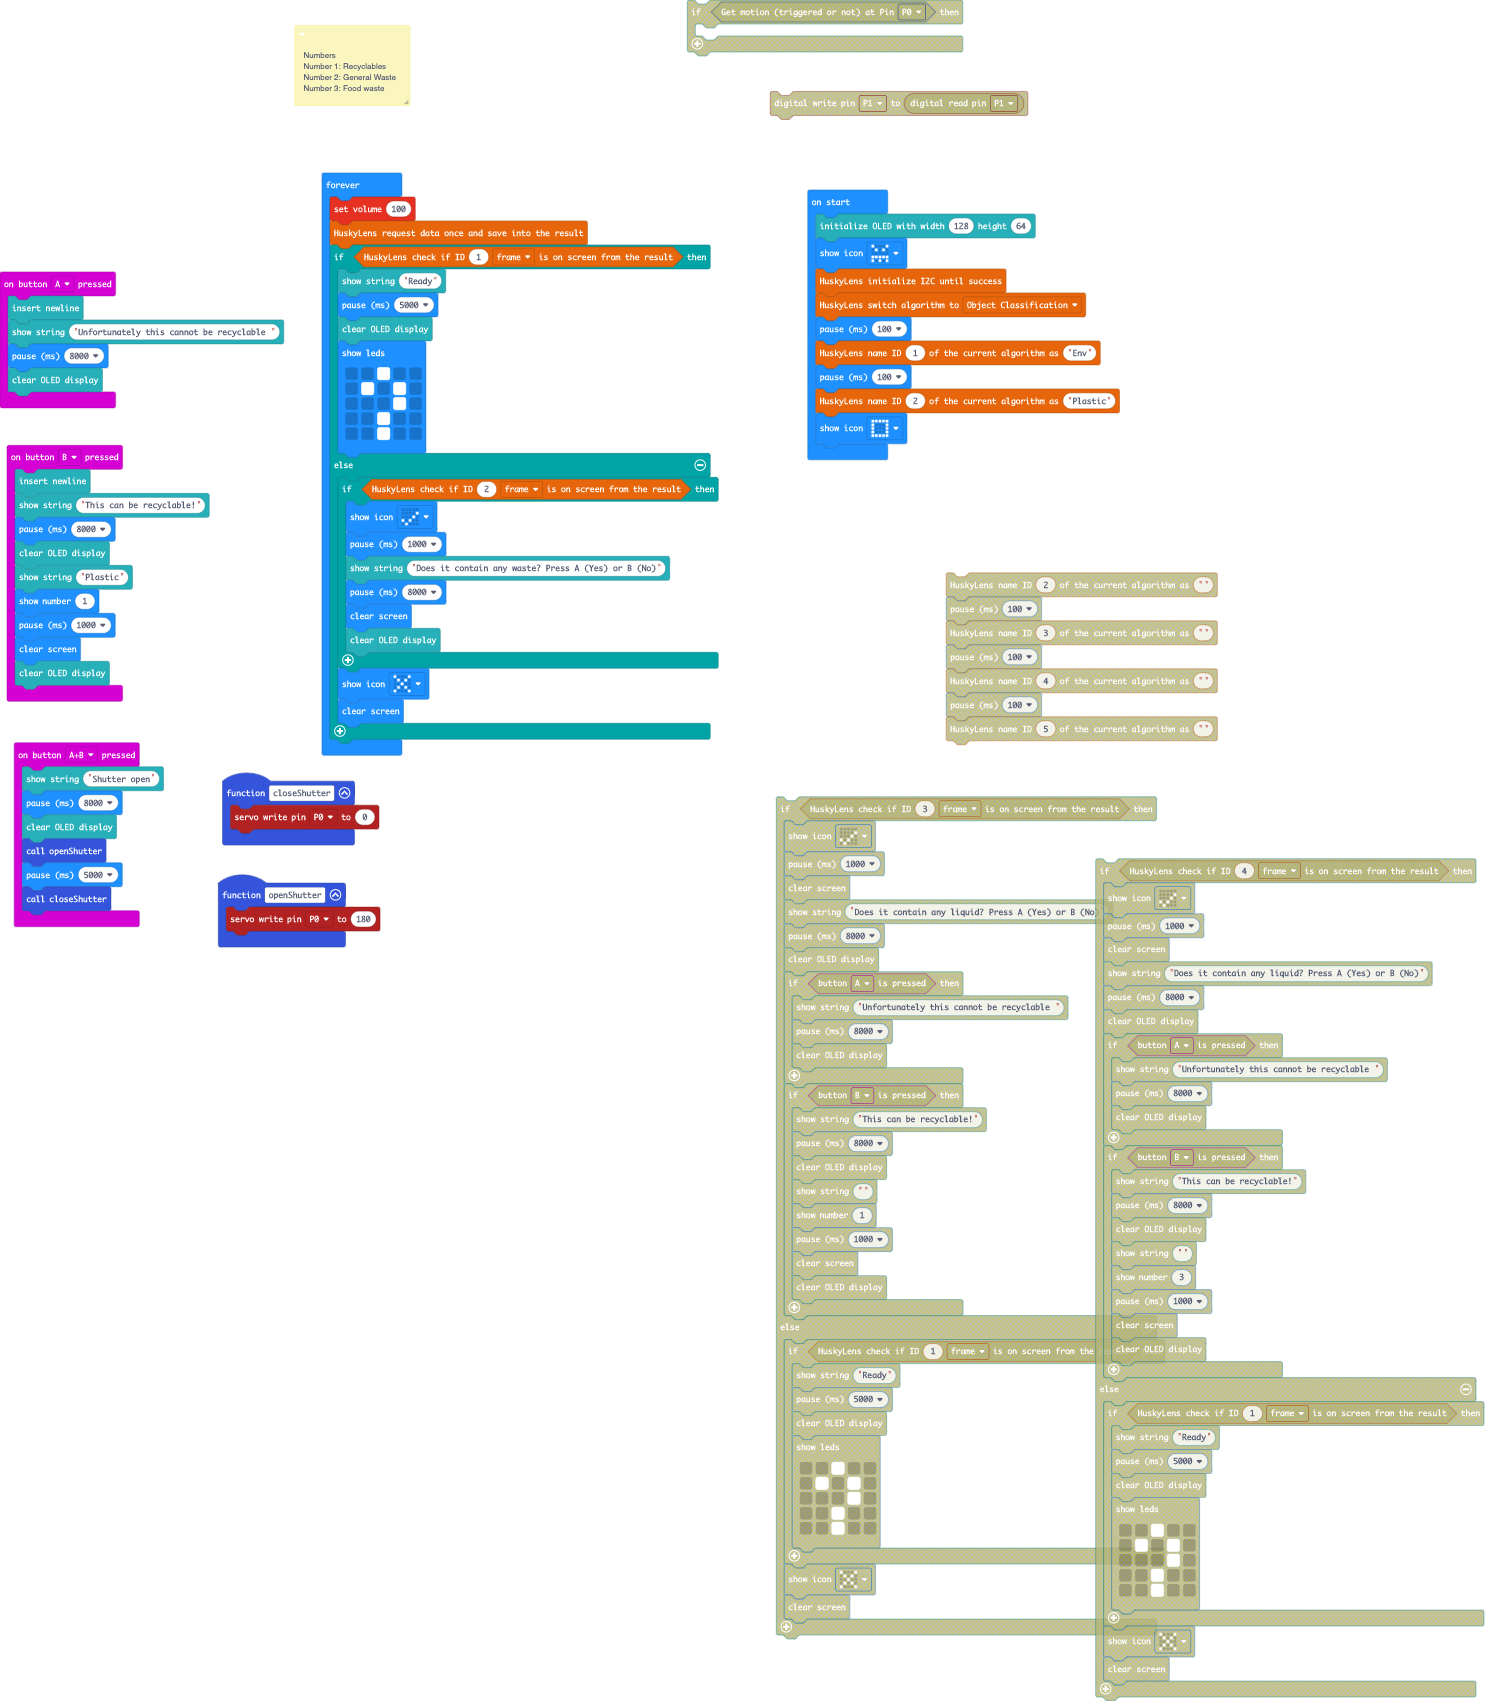
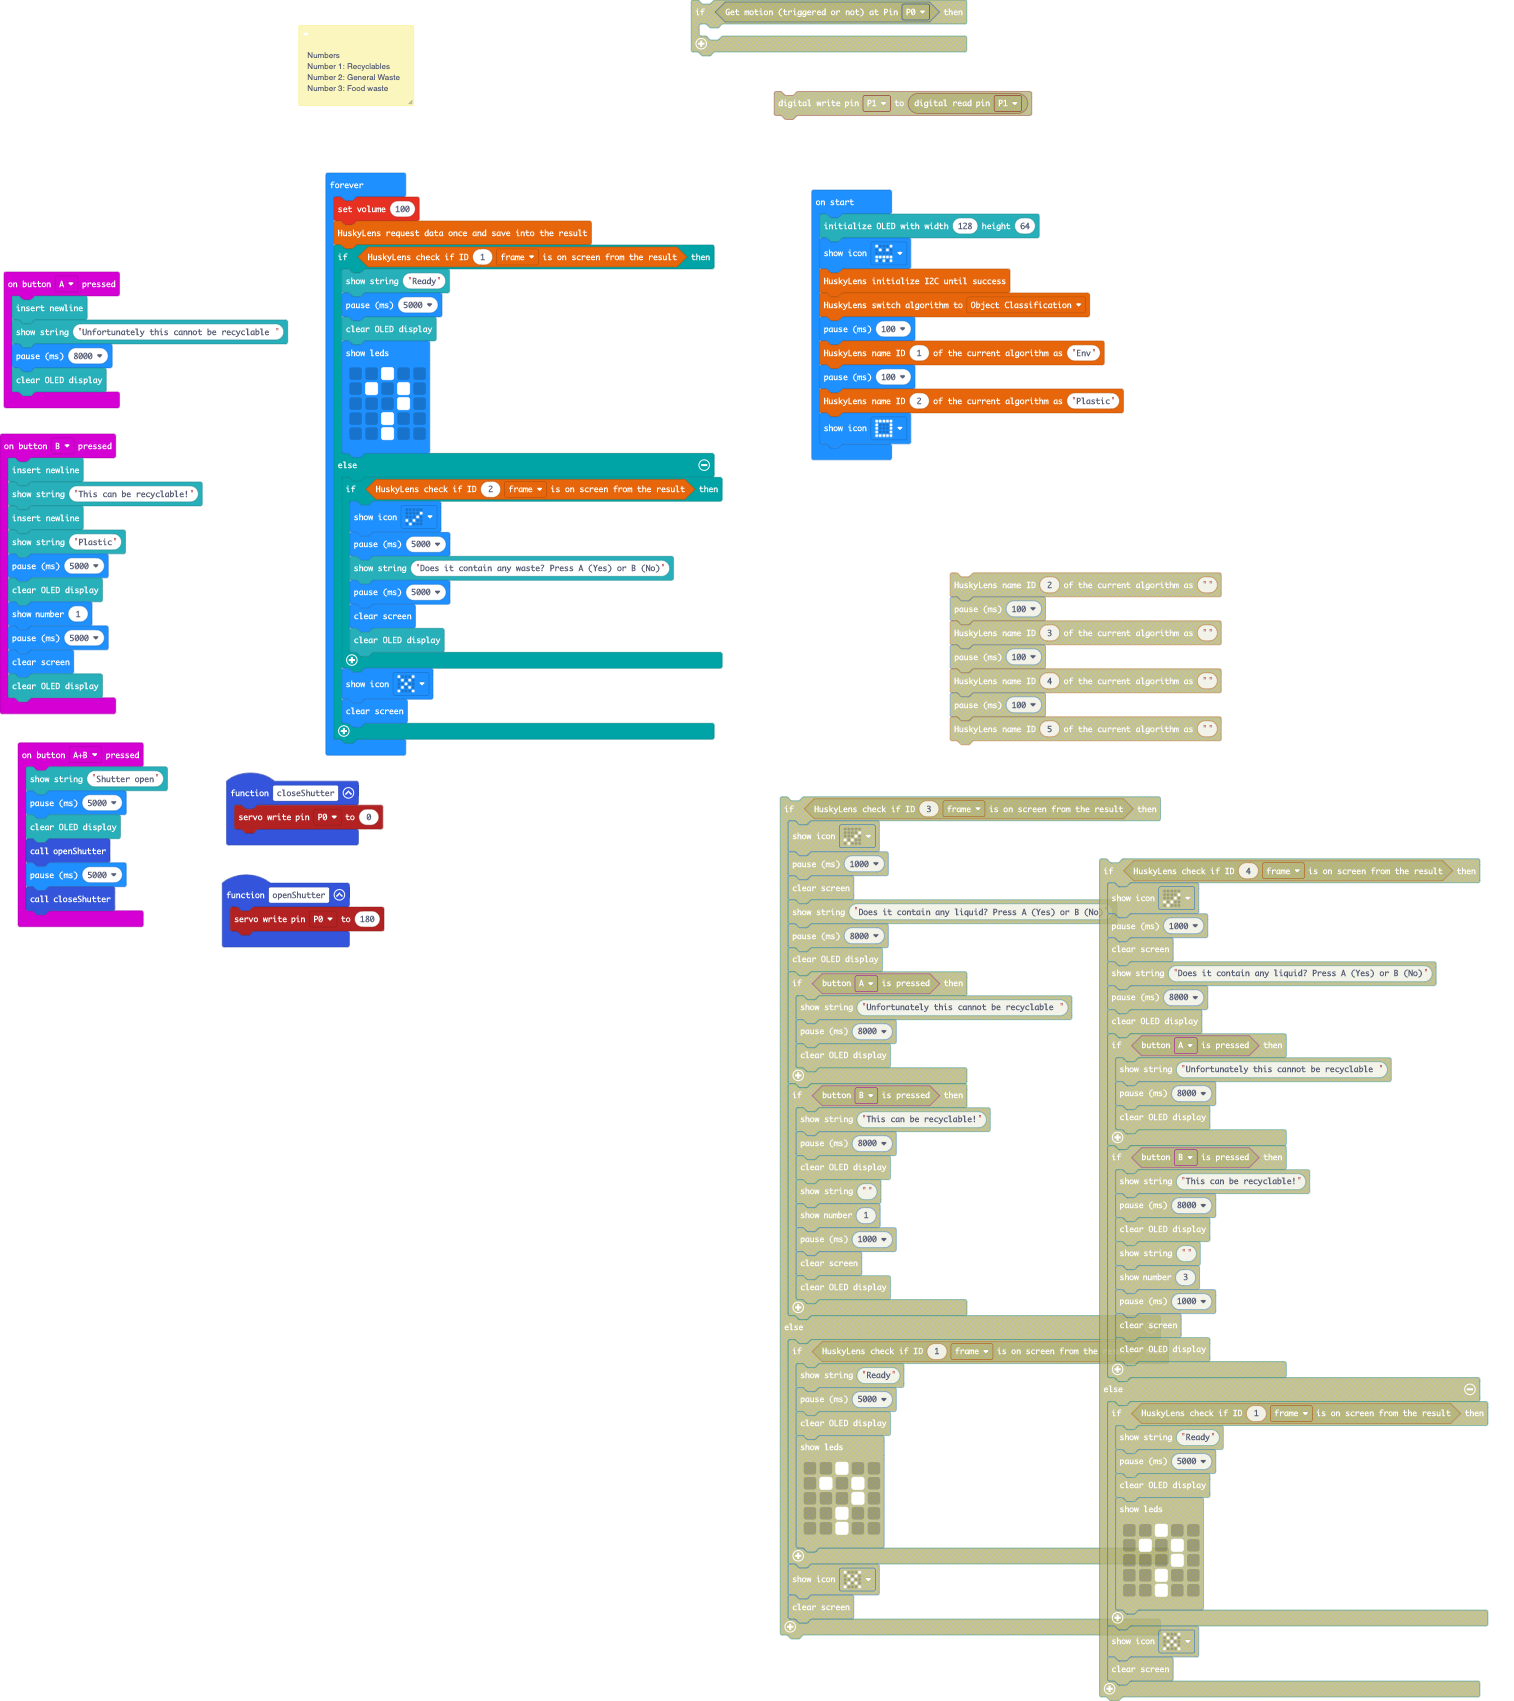
changed timing

diff --git a/main.ts b/main.ts
@@ -18,7 +18,7 @@ input.onButtonPressed(Button.A, function () {
 })
 input.onButtonPressed(Button.AB, function () {
     OLED.writeStringNewLine("Shutter open")
-    basic.pause(8000)
+    basic.pause(5000)
     OLED.clear()
     openShutter()
     basic.pause(5000)
@@ -27,11 +27,12 @@ input.onButtonPressed(Button.AB, function () {
 input.onButtonPressed(Button.B, function () {
     OLED.newLine()
     OLED.writeStringNewLine("This can be recyclable!")
-    basic.pause(8000)
-    OLED.clear()
+    OLED.newLine()
     OLED.writeStringNewLine("Plastic")
+    basic.pause(5000)
+    OLED.clear()
     basic.showNumber(1)
-    basic.pause(1000)
+    basic.pause(5000)
     basic.clearScreen()
     OLED.clear()
 })
@@ -64,9 +65,9 @@ basic.forever(function () {
     } else {
         if (huskylens.isAppear(2, HUSKYLENSResultType_t.HUSKYLENSResultBlock)) {
             basic.showIcon(IconNames.Yes)
-            basic.pause(1000)
+            basic.pause(5000)
             OLED.writeStringNewLine("Does it contain any waste? Press A (Yes) or B (No)")
-            basic.pause(8000)
+            basic.pause(5000)
             basic.clearScreen()
             OLED.clear()
         }
